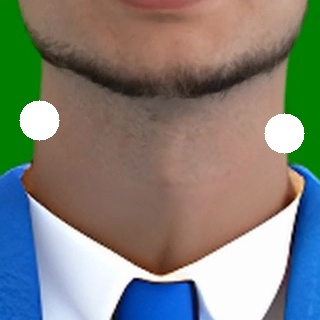
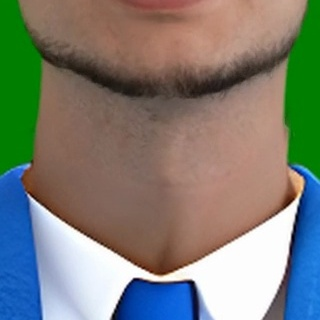
change for a new image

Changed region(s): [[0.8125, 0.3438, 0.9688, 0.5], [0.0625, 0.3125, 0.1875, 0.4375]]

diff --git a/proprocess/generate_mask.py b/proprocess/generate_mask.py
@@ -39,8 +39,9 @@ if __name__=='__main__':
     x0,y0,x1,y1,x2,y2,x3,y3,x4,y4 = tracked_lms_dict["Avatar1_pro_20231026"]
     point_list = [(x0,y0),(x1,y1),(x2,y2),(x3,y3),(x4,y4)]
     # img=draw_circle(cv2.imread('videos_raw/00028.jpg'), x0, y0)
-    img=draw_circle(img, x4, y4)
+    # img=draw_circle(img, x4, y4)
 
+    img=cv2.imread('videos_raw/00028.jpg')
     # crop image with a square
     img_crop=img[557:557+320,464:464+320,...] 
     cv2.imwrite('images/00028_crop.jpg', img_crop)
